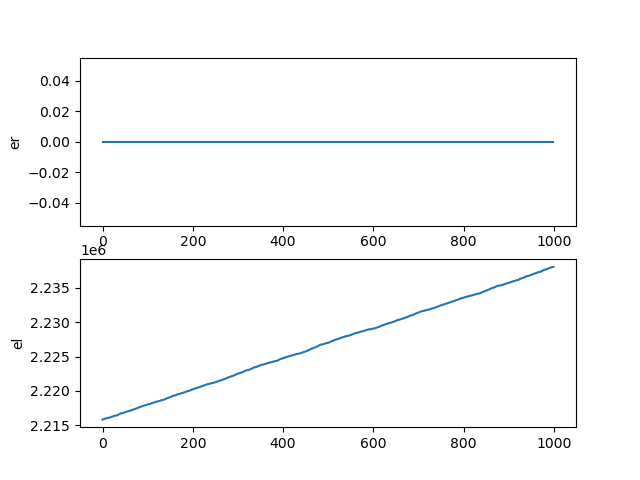
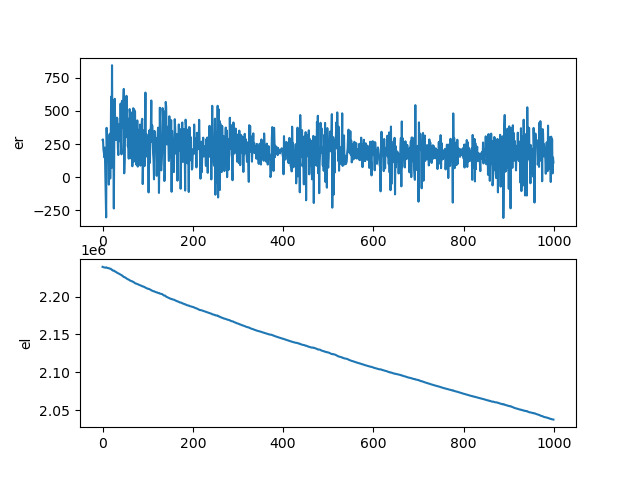
Farhang apres nouvelle fonction d'optimisation

diff --git a/Farhang.py b/Farhang.py
@@ -63,7 +63,7 @@ class Farhang:
     def opt_x(self, x, Zc, r1, r2, r3, theta):
         """ Function that defines x, the optimization parameter. Is used in root finding. """
         a = r1 + r2 + r3
-        return (Zc * (r1**2 + r2**2 + r3**2 - a * x) - 5 / 32 * a * theta) / (5 / 32 * theta + a * Zc) - x
+        return 6.4*Zc * (r1**2+r2**2+r3**2-a*x)/(x+a) - theta
 
 
     def e_total(self, lattice):
@@ -91,10 +91,10 @@ class Farhang:
                     [r1, r2, r3] = np.random.uniform(0, 1, size=(3, 1))  # Stochastic redistribution
                     a = r1 + r2 + r3
                     # Theta is used in finding x that minimizes lattice energy
-                    theta = r1 * (-2 * self.current(self.lat_B, i, j - 1) + 3 * self.lat_B[i, j - 1]) + \
-                            r2 * (-2 * self.current(self.lat_B, i + 1, j) + 3 * self.lat_B[i + 1, j]) + \
-                            r3 * (-2 * self.current(self.lat_B, i, j + 1) + 3 * self.lat_B[i, j + 1]) + \
-                            a * (2 * self.current(self.lat_B, i - 1, j) - 3 * self.lat_B[i - 1, j])
+                    theta = r1 * (-2 * self.current(self.lat_B, i, j - 1) - self.lat_B[i, i]) + r2 * (
+                                -2 * self.current(self.lat_B, i + 1, j) - self.lat_B[i, i]) + \
+                            r3 * (-2 * self.current(self.lat_B, i, j + 1) - self.lat_B[i, i]) - a * (
+                                        -2 * self.current(self.lat_B, i - 1, j) - self.lat_B[i, i])
                     result = scipy.optimize.root(self.opt_x, 1, args=(Zc, r1, r2, r3, theta))
                     x = result['x'][0]  # Finds the optimal x
                     # New lat is defined to check the condition that the energy difference is actually positive
@@ -105,7 +105,6 @@ class Farhang:
                     new_lat[i - 1, j] += 4 / 5 * x / (x + a) * Zc
                     new_lat[i + 1, j] += 4 / 5 * r2 / (x + a) * Zc
                     deltaE = self.e_total(new_lat) - self.e_total(self.lat_B)  # The energy difference
-                    print(deltaE)
                     if deltaE < 0:  # If there should be an avalanche
                         self.lat_C[i, j] -= 4 / 5 * Zc  # Updates the avalanche lattice array
                         self.lat_C[i, j - 1] += 4 / 5 * r1 / (x + a) * Zc
